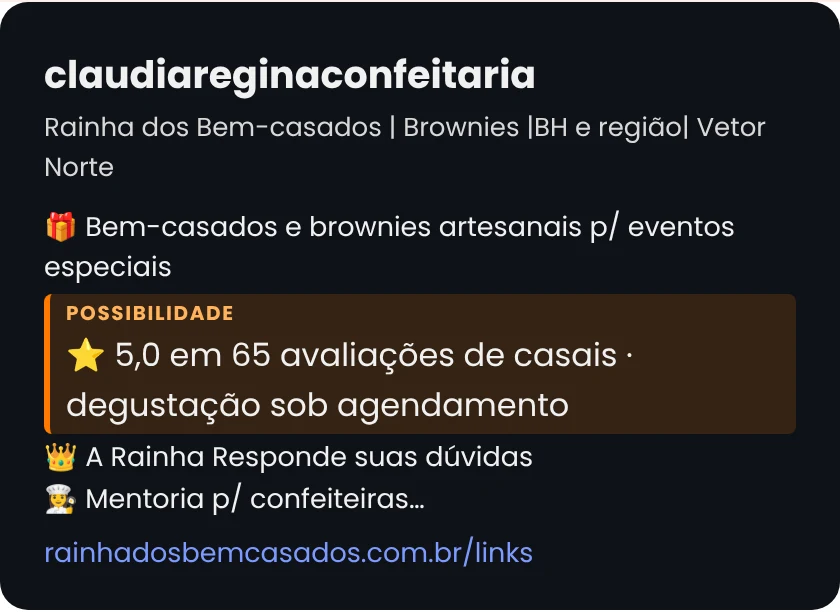
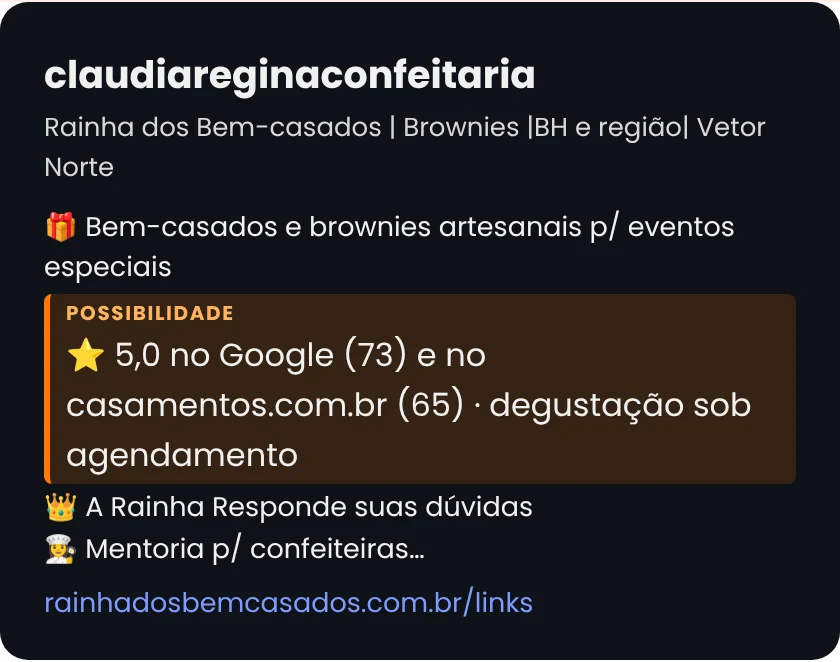
Pré-análise Cláudia Regina: inclui ficha do Google (5,0, 73 avaliações) e consulta de CNPJ
Claude-Session: https://claude.ai/code/session_01PsKj3LBtEhdjb4QeyX31VG

diff --git a/preanalise_claudiareginaconfeitaria/index.html b/preanalise_claudiareginaconfeitaria/index.html
@@ -268,7 +268,7 @@ footer a{color:var(--muted)}
     <h2>A leitura em 30 segundos</h2>
     <p class="sec-lead">Usamos o caminho do Método VOS: <b>Ver</b> com clareza, <b>Ordenar</b> o que existe e <b>Sustentar</b> com constância. Este é o recorte da Cláudia Regina Confeitaria. Em cada etapa, mostramos o que já funciona e uma possibilidade de evolução.</p>
     <div class="vos3">
-      <div class="card v1"><div class="ic"><svg class="i"><use href="#eye"/></svg></div><div class="l">Ver</div><h3>Uma marca com identidade inteira</h3><p>"A Rainha dos Bem-casados" é um nome próprio, com logo, cores e fotos que se reconhecem à primeira vista, 7.340 seguidores e seis destaques. <b>Possibilidade:</b> trazer para a bio a prova que já existe fora do Instagram (a nota 5,0 em casamentos.com.br).</p></div>
+      <div class="card v1"><div class="ic"><svg class="i"><use href="#eye"/></svg></div><div class="l">Ver</div><h3>Uma marca com identidade inteira</h3><p>"A Rainha dos Bem-casados" é um nome próprio, com logo, cores e fotos que se reconhecem à primeira vista, 7.340 seguidores e seis destaques. <b>Possibilidade:</b> trazer para a bio a prova que já existe fora do Instagram (nota 5,0 no Google e no casamentos.com.br).</p></div>
       <div class="card v2"><div class="ic"><svg class="i"><use href="#grid"/></svg></div><div class="l">Ordenar</div><h3>Um link da bio que já separa cada intenção</h3><p>Cinco botões, cada um com mensagem de WhatsApp pronta: degustação, orçamento, pedido, parceria e mentoria. <b>Possibilidade:</b> um site com cardápio e prova, para quem ainda está conhecendo a marca.</p></div>
       <div class="card v3"><div class="ic"><svg class="i"><use href="#shield"/></svg></div><div class="l">Sustentar</div><h3>Conteúdo que ensina e campanha com data</h3><p>"A Rainha Responde" tira dúvidas reais, e a campanha "até 31/10" cria um prazo claro. <b>Possibilidade:</b> um calendário de datas e um ritmo fixo para os relatos de clientes.</p></div>
     </div>
@@ -288,8 +288,8 @@ footer a{color:var(--muted)}
       <div class="card row"><div class="ic"><svg class="i"><use href="#target"/></svg></div><div><h4>Posicionamento</h4><small>"Rainha dos Bem-casados", com brownies, BH e região e Vetor Norte na bio. O nome próprio já diferencia.</small></div><div class="rt"><div class="lvl g s4"><i></i><i></i><i></i><i></i></div><div class="tagl">Ponto forte</div></div></div>
       <div class="card row"><div class="ic"><svg class="i"><use href="#chat"/></svg></div><div><h4>Comunicação</h4><small>Rosa e dourado, tipografia com serifa e fotos de produto muito bem cuidadas, em todo o feed.</small></div><div class="rt"><div class="lvl g s4"><i></i><i></i><i></i><i></i></div><div class="tagl">Ponto forte</div></div></div>
       <div class="card row"><div class="ic"><svg class="i"><use href="#tag"/></svg></div><div><h4>Oferta</h4><small>Cinco sabores apresentados, regra de quantidade por convidado e campanha com desconto até 31/10. Valores e prazos não apareceram nos posts que consultamos.</small></div><div class="rt"><div class="lvl b s3"><i></i><i></i><i></i><i></i></div><div class="tagl">Boa base</div></div></div>
-      <div class="card row"><div class="ic"><svg class="i"><use href="#globe"/></svg></div><div><h4>Presença digital</h4><small>Instagram forte, link da bio completo e site de uma página que leva ao Instagram. Não localizamos ficha no Google nas buscas feitas.</small></div><div class="rt"><div class="lvl b s3"><i></i><i></i><i></i><i></i></div><div class="tagl">Boa base</div></div></div>
-      <div class="card row"><div class="ic"><svg class="i"><use href="#star"/></svg></div><div><h4>Prova social</h4><small>Destaque "Feedbacks" no perfil e nota 5,0 em 65 avaliações no casamentos.com.br (a confirmar se é a mesma empresa). Dá para reunir tudo em um só lugar.</small></div><div class="rt"><div class="lvl a s2"><i></i><i></i><i></i><i></i></div><div class="tagl">Maior potencial</div></div></div>
+      <div class="card row"><div class="ic"><svg class="i"><use href="#globe"/></svg></div><div><h4>Presença digital</h4><small>Instagram forte, link da bio completo, site de uma página e ficha no Google ativa, com site, telefone e endereços.</small></div><div class="rt"><div class="lvl g s4"><i></i><i></i><i></i><i></i></div><div class="tagl">Ponto forte</div></div></div>
+      <div class="card row"><div class="ic"><svg class="i"><use href="#star"/></svg></div><div><h4>Prova social</h4><small>Destaque "Feedbacks" no perfil, nota 5,0 em 73 avaliações no Google e 5,0 em 65 no casamentos.com.br. Dá para reunir tudo em um só lugar, perto de quem decide.</small></div><div class="rt"><div class="lvl b s3"><i></i><i></i><i></i><i></i></div><div class="tagl">Boa base</div></div></div>
       <div class="card row"><div class="ic"><svg class="i"><use href="#cursor"/></svg></div><div><h4>Conversão</h4><small>Cinco botões de WhatsApp com mensagem pronta, um para cada intenção, mais o destaque de Contato.</small></div><div class="rt"><div class="lvl g s4"><i></i><i></i><i></i><i></i></div><div class="tagl">Ponto forte</div></div></div>
       <div class="card row"><div class="ic"><svg class="i"><use href="#route"/></svg></div><div><h4>Consistência</h4><small>468 publicações, com grade coerente entre artes, fotos e vídeos. Um calendário de datas pode dar ainda mais ritmo.</small></div><div class="rt"><div class="lvl g s4"><i></i><i></i><i></i><i></i></div><div class="tagl">Ponto forte</div></div></div>
       <div class="card row" style="background:var(--navy);border-color:var(--navy)"><div class="ic" style="background:rgba(255,255,255,.12);color:var(--orange2)"><svg class="i"><use href="#spark"/></svg></div><div><h4 style="color:#fff">Maior oportunidade (hipótese)</h4><small style="color:#c4d2e8">Reunir a prova social em um site com cardápio: se os pedidos de hoje já chegam pelo Instagram e pela indicação, o caminho segue. Se o objetivo for ser encontrada por quem ainda não conhece a marca, é o ponto com mais espaço.</small></div></div>
@@ -309,7 +309,7 @@ footer a{color:var(--muted)}
       <div class="card"><div class="ic"><svg class="i"><use href="#chat"/></svg></div><div><h4>"A Rainha Responde"</h4><p>Posts como "Quantos bem-casados eu preciso?" respondem a dúvida certa na hora certa, e posicionam a Cláudia como quem entende do assunto.</p></div></div>
       <div class="card"><div class="ic"><svg class="i"><use href="#grid"/></svg></div><div><h4>Seis destaques organizados</h4><p>Rainha responde, SBT, Feedbacks, Eventos, Degustação e Contato, com capas na mesma identidade.</p></div></div>
       <div class="card"><div class="ic"><svg class="i"><use href="#tag"/></svg></div><div><h4>Campanha com prazo claro</h4><p>"Faltam 2 dias" e "10% de desconto ou 10% a mais em bem-casados até 31/10": data, benefício e convite na mesma arte.</p></div></div>
-      <div class="card"><div class="ic"><svg class="i"><use href="#shield"/></svg></div><div><h4>Autoridade fora do Instagram</h4><p>Presença da Cláudia na TV (destaque SBT) e avaliações 5,0 em uma plataforma de casamentos (fonte pública, a confirmar).</p></div></div>
+      <div class="card"><div class="ic"><svg class="i"><use href="#shield"/></svg></div><div><h4>Autoridade fora do Instagram</h4><p>Presença da Cláudia na TV (destaque SBT), nota 5,0 no Google (73 avaliações) e 5,0 em uma plataforma de casamentos (65).</p></div></div>
     </div>
   </div>
 </section>
@@ -365,14 +365,14 @@ footer a{color:var(--muted)}
     </div>
 
     <div class="find">
-      <div class="fh"><div class="num">5</div><div><h3>As avaliações 5,0 podem acompanhar o cliente em cada ponto do caminho</h3><p>Em uma plataforma pública de casamentos aparece uma listagem "Claudia Regina Bem Casados", com nota máxima. Pelo que vimos, é uma prova forte que ainda não aparece na bio, no link nem no site.</p></div></div>
+      <div class="fh"><div class="num">5</div><div><h3>As avaliações 5,0 podem acompanhar o cliente em cada ponto do caminho</h3><p>No Google e em uma plataforma de casamentos aparecem avaliações com nota máxima. Pelo que vimos, é uma prova forte que ainda não aparece na bio, no link da bio nem no site.</p></div></div>
       <div class="three">
-        <div class="card mini"><div class="big">5,0 <small>de 5</small></div><p>Nota média na listagem em casamentos.com.br.</p><span class="ev">65 opiniões</span></div>
-        <div class="card mini"><div class="big">100% <small>recomendam</small></div><p>Percentual informado na própria página da listagem.</p><span class="ev">Fonte pública</span></div>
-        <div class="card mini"><div class="big">2018 <small>na plataforma</small></div><p>Listagem ativa desde 2018, com cerca de 85 fotos da vendedora e 35 de usuários.</p><span class="ev gap">Conferir</span></div>
+        <div class="card mini"><div class="big">5,0 <small>no Google</small></div><p>Ficha "Bem Casados Vetor Norte, Belo Horizonte e cidades vizinhas - Cláudia Regina Confeitaria".</p><span class="ev">73 avaliações</span></div>
+        <div class="card mini"><div class="big">5,0 <small>no casamentos.com.br</small></div><p>Listagem "Claudia Regina Bem Casados", na plataforma desde 2018.</p><span class="ev">65 opiniões</span></div>
+        <div class="card mini"><div class="big">100% <small>recomendam</small></div><p>Percentual informado na página da listagem do casamentos.com.br.</p><span class="ev">Fonte pública</span></div>
       </div>
-      <div class="read"><svg class="i"><use href="#eye"/></svg><span><b>Para pensar:</b> os temas mais citados nas avaliações que consultamos são sabor e textura, apresentação e embalagem, atendimento e a degustação como etapa decisiva. Se esses são os motivos de escolha, eles podem guiar o texto do cardápio e o destaque "Feedbacks".</span></div>
-      <div class="warn"><svg class="i"><use href="#alert"/></svg><span><b>A confirmar:</b> a listagem não traz Instagram, site nem CNPJ, então ainda <b>não sabemos se é a mesma empresa</b>. Se for, vale linkar a avaliação, e não copiar o texto de clientes. Fotos e relatos próprios só com autorização de cada pessoa.</span></div>
+      <div class="read"><svg class="i"><use href="#eye"/></svg><span><b>Para pensar:</b> nas avaliações que consultamos, os temas mais citados são sabor e textura, apresentação e embalagem, atendimento, entrega no prazo e a degustação como etapa decisiva. Se esses são os motivos de escolha, eles podem guiar o texto do cardápio e o destaque "Feedbacks".</span></div>
+      <div class="warn"><svg class="i"><use href="#alert"/></svg><span><b>A confirmar:</b> a listagem do casamentos.com.br não traz Instagram nem CNPJ. Os sabores e o nome indicam que é a mesma confeitaria, e vale confirmar com a Cláudia. Para trazer as avaliações ao site, vale linkar a fonte, e não copiar o texto de clientes. Fotos e relatos próprios só com autorização de cada pessoa.</span></div>
     </div>
 
     <div class="find" style="margin-bottom:0">
@@ -399,10 +399,11 @@ footer a{color:var(--muted)}
           <tr><td>Instagram</td><td>@claudiareginaconfeitaria, com 468 posts, 7.340 seguidores e 2.333 seguindo. Bio com bem-casados e brownies artesanais, "A Rainha Responde" e mentoria. Seis destaques.</td><td class="src">Instagram (prints de 30/10/2026)</td><td><span class="pill ok">Ativo</span></td></tr>
           <tr><td>Link da bio</td><td>Página de links com cinco botões de WhatsApp (degustação, orçamento, pedido, parceria e mentoria), cada um com mensagem pronta.</td><td class="src">rainhadosbemcasados.com.br/links</td><td><span class="pill ok">Ponto forte</span></td></tr>
           <tr><td>Site</td><td>Página única com logo, apresentação e botão para o Instagram. Sem cardápio, valores ou avaliações nesta página.</td><td class="src">rainhadosbemcasados.com.br</td><td><span class="pill at">Possibilidade</span></td></tr>
-          <tr><td>Casamentos.com.br</td><td>Listagem "Claudia Regina Bem Casados": nota 5,0, 65 opiniões, 100% recomendam, na plataforma desde 2018. Prazo e entrega informados na listagem.</td><td class="src">casamentos.com.br (listagem e opiniões)</td><td><span class="pill at">Conferir</span></td></tr>
-          <tr><td>Google (ficha da empresa)</td><td>Não localizamos ficha com endereço, horário e avaliações nas buscas feitas.</td><td class="src">Buscas públicas</td><td><span class="pill at">Possibilidade</span></td></tr>
-          <tr><td>Reclame Aqui</td><td>Não localizamos página própria.</td><td class="src">Buscas públicas</td><td><span class="pill nl">Não localizado</span></td></tr>
-          <tr><td>CNPJ</td><td>Informado no cadastro do contato. Não conferimos a situação cadastral.</td><td class="src">A validar com a Cláudia</td><td><span class="pill at">Conferir</span></td></tr>
+          <tr><td>Google (ficha da empresa)</td><td>Ficha "Bem Casados Vetor Norte, Belo Horizonte e cidades vizinhas - Cláudia Regina Confeitaria": nota 5,0 em 73 avaliações, site, telefone e horário. Três endereços listados (BH, Lagoa Santa e Jaboticatubas).</td><td class="src">Busca no Google (30/10/2026)</td><td><span class="pill ok">Ponto forte</span></td></tr>
+          <tr><td>Casamentos.com.br</td><td>Listagem "Claudia Regina Bem Casados": nota 5,0, 65 opiniões, 100% recomendam, na plataforma desde 2018. Prazo e entrega informados na listagem.</td><td class="src">casamentos.com.br (listagem e opiniões)</td><td><span class="pill ok">Ponto forte</span></td></tr>
+          <tr><td>Outros perfis</td><td>O Google também lista um canal no YouTube e um perfil no Facebook com o nome da confeitaria.</td><td class="src">Busca no Google (30/10/2026)</td><td><span class="pill nl">Conferir</span></td></tr>
+          <tr><td>Reclame Aqui</td><td>Não localizamos página própria nas buscas feitas.</td><td class="src">Buscas públicas</td><td><span class="pill nl">Não localizado</span></td></tr>
+          <tr><td>CNPJ</td><td>O CNPJ informado aparece em consulta pública (Serasa Experian) como empresa ativa, aberta em 2019, com sede em Jaboticatubas/MG. Não conferimos o cadastro oficial.</td><td class="src">Serasa Experian (consulta pública)</td><td><span class="pill ok">Ativa</span></td></tr>
         </tbody>
       </table>
     </div>
@@ -417,7 +418,7 @@ footer a{color:var(--muted)}
     <p class="sec-lead">Se os caminhos de hoje já trazem conversão, eles seguem. Se o objetivo for ampliar com anúncios, estas três camadas ajudam cada real investido a render.</p>
     <div class="path">
       <div class="card"><div class="ic" style="background:var(--blue-bg);color:var(--blue)"><svg class="i" style="width:24px;height:24px"><use href="#route"/></svg></div><h4>Caminho claro</h4><ul><li>Link da bio e botões por intenção (já existem)</li><li>Site com cardápio e "como encomendar"</li><li>Resposta rápida para quem chega do anúncio</li></ul></div>
-      <div class="card"><div class="ic" style="background:var(--orange-bg);color:var(--orange)"><svg class="i" style="width:24px;height:24px"><use href="#star"/></svg></div><h4>Prova reunida</h4><ul><li>Avaliações e feedbacks com autorização</li><li>Ficha no Google com nota e fotos</li><li>Prazos, entrega e dados da empresa visíveis</li></ul></div>
+      <div class="card"><div class="ic" style="background:var(--orange-bg);color:var(--orange)"><svg class="i" style="width:24px;height:24px"><use href="#star"/></svg></div><h4>Prova reunida</h4><ul><li>Avaliações e feedbacks com autorização</li><li>Ficha no Google (nota 5,0) com endereços, horário e link de pedido em dia</li><li>Prazos, entrega e dados da empresa visíveis</li></ul></div>
       <div class="card"><div class="ic" style="background:var(--green-bg);color:var(--green)"><svg class="i" style="width:24px;height:24px"><use href="#shield"/></svg></div><h4>Medição</h4><ul><li>Origem de cada pedido (bio, site, anúncio)</li><li>Eventos de clique, sem dados pessoais</li><li>Leitura mensal do que gerou conversa</li></ul></div>
     </div>
     <div class="warn"><svg class="i"><use href="#alert"/></svg><span><b>Ponto de atenção:</b> descontos e prazos anunciados devem ser claros e cumpríveis, e cada plataforma tem regras próprias de anúncio. Vale confirmar antes de anunciar. Esta é uma leitura de marketing, e não parecer jurídico.</span></div>
@@ -430,8 +431,8 @@ footer a{color:var(--muted)}
     <h2>Um caminho de 90 dias no Método VOS</h2>
     <p class="sec-lead">Um exemplo de sequência, a ajustar depois de conversarmos sobre os objetivos de vocês. O que já funciona entra como base e é preservado.</p>
     <div class="plan">
-      <div class="card b1"><div class="hd"><svg class="i"><use href="#eye"/></svg>VER · dias 1 a 30<span>Base</span></div><ul><li>Conversar sobre objetivos e prioridades, e entender o que já converte e deve ser preservado</li><li>Confirmar a listagem de avaliações e os dados da empresa</li><li>Ficha no Google em dia</li><li><b>Prioridade:</b> reunir relatos e fotos reais de eventos, com autorização</li></ul></div>
-      <div class="card b2"><div class="hd"><svg class="i"><use href="#grid"/></svg>ORDENAR · dias 31 a 60<span>Estrutura</span></div><ul><li>Site com cardápio, como encomendar e avaliações</li><li>Faixa de prova e sabores no link da bio</li><li>Linha de prova na bio</li><li>Pilares de conteúdo: produto, Rainha Responde, eventos reais e mentoria</li></ul></div>
+      <div class="card b1"><div class="hd"><svg class="i"><use href="#eye"/></svg>VER · dias 1 a 30<span>Base</span></div><ul><li>Conversar sobre objetivos e prioridades, e entender o que já converte e deve ser preservado</li><li>Confirmar a listagem de avaliações e os dados da empresa</li><li>Ficha no Google em dia (endereços, horário e link de pedido)</li><li><b>Prioridade:</b> reunir relatos e fotos reais de eventos, com autorização</li></ul></div>
+      <div class="card b2"><div class="hd"><svg class="i"><use href="#grid"/></svg>ORDENAR · dias 31 a 60<span>Estrutura</span></div><ul><li>Site com cardápio, como encomendar e avaliações</li><li>Faixa de prova e sabores no link da bio</li><li>Linha de prova na bio (Google e casamentos.com.br)</li><li>Pilares de conteúdo: produto, Rainha Responde, eventos reais e mentoria</li></ul></div>
       <div class="card b3"><div class="hd"><svg class="i"><use href="#shield"/></svg>SUSTENTAR · dias 61 a 90<span>Tração</span></div><ul><li>Calendário de datas e campanhas</li><li>Pedido de avaliação após cada evento</li><li>Relato de cliente em destaque todo mês</li><li>Medição de origem dos pedidos</li><li>Teste de anúncio em pequena escala, com medição</li><li>Leitura mensal: o que gerou conversa</li></ul></div>
     </div>
   </div>
@@ -445,7 +446,7 @@ footer a{color:var(--muted)}
         <li>Ainda não conversamos com a Cláudia Regina Confeitaria. Não sabemos quais são as prioridades nem o que já gera resultado, então tudo aqui são possibilidades. O que já funciona deve ser preservado.</li>
         <li>Baseada só em informações públicas, em prints do Instagram, do link da bio e do site feitos em 30/10/2026, e em buscas na internet. Não temos acesso a métricas internas, vendas ou investimentos anteriores.</li>
         <li>Não analisamos métricas de curtidas e alcance dos posts: elas ficam com a confeitaria.</li>
-        <li>A listagem do casamentos.com.br pode ou não ser da mesma empresa. Não localizamos ficha no Google nem Reclame Aqui; isso não indica problema, indica que não os alcançamos nas buscas feitas.</li>
+        <li>A listagem do casamentos.com.br tem o mesmo nome e os mesmos sabores, e ainda precisa ser confirmada com a Cláudia. Não localizamos Reclame Aqui; isso não indica problema, indica que não o alcançamos nas buscas feitas.</li>
         <li>Não analisamos a mentoria nem suas promessas; se houver comunicação de resultados ou de renda, vale revisar com cuidado.</li>
         <li>Fotos, nomes e depoimentos de clientes só devem ser usados com autorização de cada pessoa.</li>
         <li>As imagens de "possibilidade" são <b>ilustrativas</b>. Números, prazos, condições e textos entre colchetes devem ser validados pela Cláudia Regina Confeitaria.</li>
@@ -473,7 +474,7 @@ footer a{color:var(--muted)}
       <li>Instagram @claudiareginaconfeitaria: prints de 30/10/2026.</li>
       <li>Link da bio e site: rainhadosbemcasados.com.br, em 30/10/2026.</li>
       <li>Casamentos.com.br: <a href="https://www.casamentos.com.br/doces-casamento/claudia-regina-bem-casados--e236727" rel="noopener">listagem Claudia Regina Bem Casados</a> e suas opiniões, em 30/10/2026.</li>
-      <li>Buscas públicas na internet por "Cláudia Regina Confeitaria" (Google, avaliações), em 30/10/2026.</li>
+      <li>Busca no Google por "claudia regina confeitaria" (ficha da empresa, avaliações e outros perfis) e consulta pública de CNPJ no Serasa Experian, em 30/10/2026.</li>
     </ul>
     <div>Material preparado pela YM Marketing &amp; Negócios para uso exclusivo da Cláudia Regina Confeitaria. Marcas, nomes e imagens da confeitaria e de terceiros pertencem a seus titulares e aparecem aqui apenas para análise.</div>
   </div>
